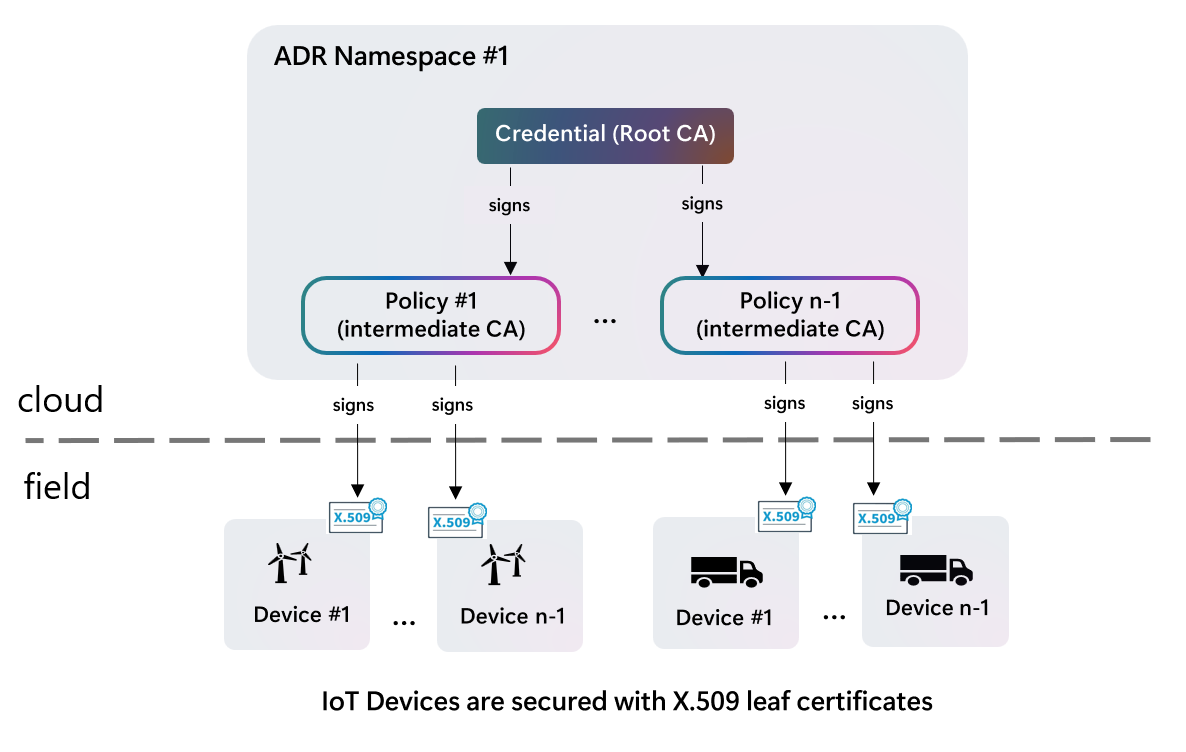
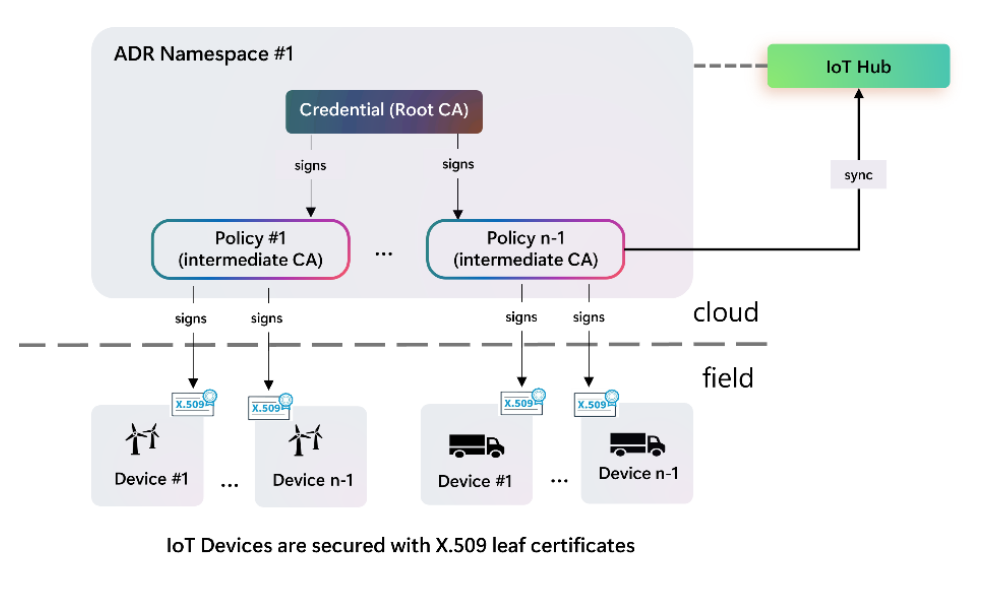
Adding new page to certificate management

diff --git a/articles/iot-hub/iot-hub-certificate-management-overview.md b/articles/iot-hub/iot-hub-certificate-management-overview.md
@@ -13,67 +13,57 @@ ms.date: 10/20/2025
 
 # What is Certificate Management (Preview)?
 
-Certificate Management is a built-in feature of IoT Hub that enables you to manage device certificates using Microsoft-managed PKI with X.509 certificates. The X.509 certificates are operational certificates that devices use to authenticate with IoT Hub for secure communications after the device onboards with a different credential.
+Certificate Management is a built-in feature of Azure Device Registry (ADR) that enables you to issue X.509 certificates for your IoT devices. It configures a dedicated, cloud-based public key infrastructure (PKI) for each of your ADR Namespaces, without requiring any on-premises servers, connectors, or hardware. It handles the certificate of issuance and renewal for all IoT devices that have been provisioned to that ADR Namespace. These X.509 certificates can be used for your IoT devices to authenticate with IoT Hub. 
 
-If you want to use Certificate Management, you need to set up an [Azure Device Registry (ADR) namespace](iot-hub-device-registry-setup.md) and link it to your IoT hub instance.
+Using Certificate Management requires you to also use IoT Hub, [Azure Device Registry (ADR)](iot-hub-device-registry-setup.md), and [Device Provisioning Service (DPS)](../iot-dps/index.yml). Certificate Management is currently in public preview.
 
 [!INCLUDE [iot-hub-public-preview-banner](includes/public-preview-banner.md)]
 
-## Authentication and authorization
+## Overview of features
 
-*Authentication* is the process of proving that you're who you say you are. Authentication verifies the identity of a user or device to IoT Hub. It's sometimes shortened to *AuthN*. 
+The following features are supported with Certificate Management for IoT Hub devices:
 
-*Authorization* is the process of confirming permissions for an authenticated user or device on IoT Hub. It specifies what resources and commands you're allowed to access, and what you can do with those resources and commands. Authorization is sometimes shortened to *AuthZ*.
+| Feature | Description |
+|---------|-------------|
+| Create a unique root certificate authority (CA) per ADR Namespace | Create up to 1 root CA, also known as credential resource, in your ADR namespace |
+| Create chained issuing certificate authorities (CA) per ADR namespace | Create up to 3 issuing CA’s, also known as policies, in your ADR namespace and customize validity periods for issued certificates. |
+| Signing and Encryption algorithms | The CA will sign and end-entity certificates using the following key type: ECC NistP384 |
+| HSM keys (signing and encryption) | Keys are provisioned using [Azure Managed Hardware Security Module (Azure Managed HSM)](azure/key-vault/managed-hsm/overview). CAs created within your ADR namespace automatically use HSM signing and encryption keys. No Azure subscription is required for Azure HSM. |
+| End-entity certificate issuance for devices | Also known as leaf certificate issuance. These certificates are signed by the issuing ICA. When a device requests a certificate via certificate signing request, an end-entity leaf certificate is delivered to the IoT device. |
+| Syncing of CA chains with IoT Hubs | The policies defined in your ADR namespace will be synced to the appropriate IoT Hub. This will enable IoT Hub to trust any devices authenticating with a leaf certificate. |
 
-X.509 certificates are only used for authentication in IoT Hub, not authorization. Unlike with [Microsoft Entra ID](authenticate-authorize-azure-ad.md) and [shared access signatures](authenticate-authorize-sas.md), you can't customize permissions with X.509 certificates.
-
-## Microsoft vs third-party PKI
-
-Public key infrastructure (PKI) uses digital certificates to authenticate and encrypt data between devices and services. PKI certificates secure scenarios like VPN, Wi-Fi, email, web, and device identity. Managing PKI certificates is challenging, costly, and complex, especially for organizations with many devices and users.
-
-IoT Hub supports two types of PKI providers for X.509 certificate authentication:
-
-| PKI provider | Integration required | IoT Hub generation | 
-|--------------|----------------------|-------------------|
-| Microsoft-managed PKI | No. Configure certificate authorities directly in Azure Device Registry (ADR).| IoT Hub Gen 2  |
-| Third-party PKI (DigiCert, GlobalSign, etc.) | Yes. Manual integration required.  | IoT Hub Gen 1 and|
-
-This article focuses on Microsoft-managed PKI with Certificate Management. For information about using third-party PKI providers, see [Authenticate devices with X.509 CA certificates](authenticate-authorize-x509.md).
-
-## Authenticate with IoT Hub using X.509 certificates
-
-To onboard and connect devices to IoT Hub, Certificate Management requires using X.509 certificate-based authentication. Other Azure IoT services like IoT Central authenticate devices using X.509 certificates or SAS (shared access signature) keys. Certificate Management prioritizes X.509 certificates because of their enhanced security.
-
-Certificate-based authentication offers these benefits over less secure methods like symmetric keys or SAS tokens:
-
-- Prevents unauthorized devices from joining the IoT network.
-- Lets admins revoke access to compromised devices.
-- Reduces the risk of exposing device credentials in transit or at rest.
-- Lets admins use different certificates for devices, groups, or scenarios.
 
 ## How Certificate Management works
 
-Certificate Management uses [Azure Device Registry (ADR)](iot-hub-device-registry-overview.md) to manage device certificates. ADR is a service that provides secure device identity and authentication for IoT solutions. It integrates with IoT Hub and Device Provisioning Service (DPS) to provide a seamless experience for managing device identities and certificates.
+Certificate Management consists of several integrated components that work together to streamline the deployment of public key infrastructure (PKI) across IoT devices. To use Certificate Management with IoT Hub, you must set up both an Azure Device Registry (ADR) namespace and a Device Provisioning Service (DPS) instance.
 
-When you set up your [ADR namespace](iot-hub-device-registry-namespaces.md#create-a-new-namespace), you can create a credential resource that configures a Microsoft-managed PKI and root CA on behalf of that ADR namespace. Within the namespace, you also configure one or more policies. Each policy coincides with an intermediate certificate authority (ICA) that is signed by the root CA of that namespace. Each ICA can only issue leaf certificates for devices registered within that ADR namespace and with Hubs linked to the namespace. In this policy, you can also define the lifespan for your operational leaf certificates, also known as your device certificates.
+### Azure Device Registry integration
+
+Certificate Management uses [Azure Device Registry (ADR)](iot-hub-device-registry-overview.md) to manage device certificates. ADR is a service that provides secure device identity and authentication for IoT solutions. It integrates with IoT Hub and Device Provisioning Service (DPS) to provide a seamless experience for managing device identities and certificates.
 
 For more information about how to create namespaces, policies, and credentials, see [Create and manage namespaces](iot-hub-device-registry-namespaces.md).
 
-The ADR namespace and its credential resource are then linked to your IoT Hub instance and DPS. This linkage enables IoT Hub to trust the device certificates issued by the ICAs configured in the ADR namespace.
+The following image illustrates the X.509 certificate hierarchy used to authenticate IoT devices in Azure IoT Hub through the Azure Device Registry (ADR).
 
-The following image illustrates the X.509 certificate hierarchy used to authenticate IoT devices in Azure IoT Hub through the Azure Device Registry (ADR). 
-
-- Each ADR namespace (cloud) has a unique root CA credential managed by Microsoft. This credential acts as the primary certificate authority. 
-- Each policy within the ADR namespace defines an intermediate CA (ICA) signed by the root CA. Each ICA can issue leaf certificates for devices registered within that ADR namespace and with Hubs linked to the namespace. This structure enables scalable identity management and policy enforcement across device groups.
-- Each device (field) is authenticated using an X.509 leaf certificate issued and signed by one of the ICAs defined in the ADR namespace. The leaf certificate is used for secure communication with IoT Hub.
+- Each ADR namespace (cloud) has a unique root CA credential managed by Microsoft. This credential acts as the primary certificate authority in the chain.
+- Each policy within the ADR namespace defines an issuing CA (ICA) signed by the root CA. Each policy can issue leaf certificates for devices registered within that ADR namespace and with Hubs linked to the namespace. This structure enables scalable identity management and policy enforcement across device groups.
+- Each device (field) is authenticated using an X.509 leaf certificate issued and signed by one of the ICAs defined in the policy. The leaf certificate is used for secure communication with IoT Hub.
 
 :::image type="content" source="media/certificate-management/device-registry-certificate-management.png" alt-text="Diagram showing how Azure Device Registry integrates with IoT Hub and DPS for certificate management." lightbox="media/certificate-management/device-registry-certificate-management.png":::
 
-### Device provisioning with Certificate Management
+### Device Provisioning Service integration
 
-Similarly to IoT Hub Gen 1, in order to use certificate management, devices must be provisioned via [Device Provisioning Service (DPS)](../iot-dps/index.yml) with Certificate Management. When a device connects to DPS for provisioning, it authenticates using its onboarding credentials. Once authenticated, the device is provisioned to the appropriate IoT Hub and registered to the appropriate ADR namespace. As part of this provisioning call, the device also submits a Certificate Signing Request (CSR) to DPS, which it uses to request an X.509 operational certificate that IoT Hub recognizes. The CSR includes information about the device, such as its public key and other identifying information.
+To use Certificate Management, devices must be provisioned through [Device Provisioning Service (DPS)](../iot-dps/index.yml). You need to configure either individual or group enrollment, which includes:
 
-With Certificate Management, you control your resources in ADR, IoT Hub Gen 2, and DPS, while Microsoft manages the PKI infrastructure, including the root CA and ICAs.
+1. Selecting the onboarding authentication method for device registration. Supported methods are Trusted Platform Module (TPM), symmetric keys, or X.509 certificates.
+1. Linking a policy created within your ADR namespace to manage certificate issuance and lifecycle.
+
+DPS now accepts Certificate Signing Requests (CSR). IoT devices generate a **Certificate Signing Request (CSR)** containing their public key and identity to prove key ownership. The CSR is sent to the PKI, which validates it and forwards it to an **Issuing CA (ICA)** to issue an X.509 certificate. For more information on DPS Certificate Signing Request, check out some the Device DPS SDKs samples.
+
+> [!NOTE]
+> While a PKI is configured for each of your ADR Namespaces, it's not exposed as an external Azure resource.
+
+### End-to-end device provisioning with Certificate Management
 
 The following diagram illustrates the end-to-end process of device provisioning with Certificate Management:
 
@@ -89,9 +79,9 @@ The following diagram illustrates the end-to-end process of device provisioning 
 
 ## Renewal of certificates
 
-Due to the wide variety of IoT devices, each device is responsible for monitoring the expiration date of its operational certificate and determining when renewal is required. The certificate includes its **expiration date**, which the device can track to identify when rotation is needed. 
+Certificate renewals are performed using the same mechanism as certificate issuance. When the device detects a need to renew its operational certificate, device initiates another provisioning call to DPS, submitting a new Certificate Signing Request (CSR) signed by its private key. The CSR is sent to the appropriate intermediate certificate authority (ICA) to request a new leaf certificate. Once approved, the new operational certificate is returned to the device for continued secure authentication with IoT Hub. 
 
-When renewal is necessary, the device initiates another provisioning call to DPS, submitting a new Certificate Signing Request (CSR) signed by its private key. The CSR is sent to the appropriate intermediate certificate authority (ICA) to request a new leaf certificate. Once approved, the new operational certificate is returned to the device for continued secure authentication with IoT Hub.
+Due to the wide variety of IoT devices, each device is responsible for monitoring the expiration date of its operational certificate and determining when renewal is required. The certificate includes its **expiration date**, which the device can track to identify when rotation is needed. 
 
 ## Disable a device
 

diff --git a/articles/iot-hub/iot-hub-device-registry-setup.md b/articles/iot-hub/iot-hub-device-registry-setup.md
@@ -1,5 +1,5 @@
 ---
-title: Create an IoT hub with Azure Device Registry integration (Preview)
+title: Create an IoT hub with Certificate Management in Azure Device Registry (Preview)
 titleSuffix: Azure IoT Hub
 description: This article explains how to create an IoT hub with Azure Device Registry and Certificate Management integration.
 author: SoniaLopezBravo
@@ -11,15 +11,18 @@ ms.date: 10/20/2025
 #Customer intent: As a developer new to IoT, I want to understand what Azure Device Registry is and how it can help me manage my IoT devices.
 ---
 
-# Create an IoT hub with Azure Device Registry integration (Preview)
+# Create an IoT hub with Certificate Management in Azure Device Registry (Preview)
 
-This article explains how to create a new IoT hub with [Azure Device Registry (ADR)](iot-hub-device-registry-overview.md) and [Certificate Management](iot-hub-certificate-management-overview.md) integration. You can optionally not link Certificate Management if you only want to use ADR.
+This article explains how to create a new IoT hub with [Azure Device Registry (ADR)](iot-hub-device-registry-overview.md) and [Certificate Management](iot-hub-certificate-management-overview.md) integration. 
 
 [!INCLUDE [iot-hub-public-preview-banner](includes/public-preview-banner.md)]
 
+> [!NOTE]
+> Certificate Management requires you to also use IoT Hub, ADR, and [Device Provisioning Service (DPS)](../iot-dps/index.yml). You can optionally not use Certificate Management, and limit your setup to just IoT Hub and ADR.
+
 ## Overview
 
-To set up your IoT hub with ADR, you can use the Azure portal, Azure CLI, or run a script. Follow the instructions in the section that corresponds to your preferred method.
+To set up your IoT hub with ADR, you can use the Azure portal or Azure CLI. You can also [use a script](#automate-the-setup-with-a-script) that automates the setup process.
 
 The setup process includes the following steps:
 
@@ -48,20 +51,6 @@ Have an Azure account. If you don't have an Azure account, create a [free accoun
   ```
 
 - Install [Azure CLI](/cli/azure/install-azure-cli) in your environment, or run `az upgrade` to ensure you have the latest version.
-
-### [Script](#tab/script)
-
-- Have an active Azure subscription. If you don't have an Azure subscription, create a [free account](https://azure.microsoft.com/free/).
-- A resource group to hold your resources. You can create a new resource group or use an existing one. If you want to create a new resource group, use the [az group create](/cli/azure/group#az-group-create) command:
-
-   ```azurecli
-   az group create --name <RESOURCE_GROUP_NAME> --location "<REGION>"
-   ```
-- A Device Provisioning Service (DPS) instance. If you don't have a DPS instance, use the [az iot dps create](/cli/azure/iot/dps#az-iot-dps-create) command to create one:
-
-   ```azurecli
-   az iot dps create --name <DPS_NAME> --resource-group <RESOURCE_GROUP_NAME> --location "<REGION>"
-   ```
 
 ***
 
@@ -409,9 +398,45 @@ To provision devices with leaf certificates, you need to create an enrollment gr
 ```bash
 az iot dps enrollment-group create --dps-name "$DPS_NAME" --resource-group "$RESOURCE_GROUP" --enrollment-id "$ENROLLMENT_ID" --credential-policy default
 ```
+*** 
 
+## Delete an IoT hub
 
-### [Script](#tab/script)
+When you delete an IoT hub, you lose the associated device identity registry. If you want to move or upgrade an IoT hub, or delete an IoT hub but keep the devices, consider [migrating an IoT hub using the Azure CLI](./migrate-hub-state-cli.md).
+
+### [Azure portal](#tab/portal)
+
+To delete an IoT hub, open your IoT hub in the Azure portal, then choose **Delete**.
+
+:::image type="content" source="./media/create-hub/delete-iot-hub.png" alt-text="Screenshot showing where to find the delete button for an IoT hub in the Azure portal." lightbox="./media/create-hub/delete-iot-hub.png":::
+
+### [Azure CLI](#tab/cli)
+
+To delete an IoT hub, run the [az iot hub delete](/cli/azure/iot/hub#az-iot-hub-delete) command:
+
+```azurecli-interactive
+az iot hub delete --name $HUB_NAME --resource-group $RESOURCE_GROUP
+```
+
+*** 
+
+## Automate the setup with a script
+
+You can use the provided PowerShell script to automate the setup of your IoT hub with Azure Device Registry integration. The script performs all the necessary steps to create the required resources and link them together.
+
+### Prerequisites
+
+- Have an active Azure subscription. If you don't have an Azure subscription, create a [free account](https://azure.microsoft.com/free/).
+- A resource group to hold your resources. You can create a new resource group or use an existing one. If you want to create a new resource group, use the [az group create](/cli/azure/group#az-group-create) command:
+
+   ```azurecli
+   az group create --name <RESOURCE_GROUP_NAME> --location "<REGION>"
+   ```
+- A Device Provisioning Service (DPS) instance. If you don't have a DPS instance, use the [az iot dps create](/cli/azure/iot/dps#az-iot-dps-create) command to create one:
+
+   ```azurecli
+   az iot dps create --name <DPS_NAME> --resource-group <RESOURCE_GROUP_NAME> --location "<REGION>"
+   ```
 
 ### Prepare Your Environment
 
@@ -457,32 +482,6 @@ Set values for the following variables in the variables section
     - ADR Namespace
     - User-Assigned Managed Identity (UAMI)
     - Custom Role Assignments
-
-***
-
-## Delete an IoT hub
-
-When you delete an IoT hub, you lose the associated device identity registry. If you want to move or upgrade an IoT hub, or delete an IoT hub but keep the devices, consider [migrating an IoT hub using the Azure CLI](./migrate-hub-state-cli.md).
-
-### [Azure portal](#tab/portal)
-
-To delete an IoT hub, open your IoT hub in the Azure portal, then choose **Delete**.
-
-:::image type="content" source="./media/create-hub/delete-iot-hub.png" alt-text="Screenshot showing where to find the delete button for an IoT hub in the Azure portal." lightbox="./media/create-hub/delete-iot-hub.png":::
-
-### [Azure CLI](#tab/cli)
-
-To delete an IoT hub, run the [az iot hub delete](/cli/azure/iot/hub#az-iot-hub-delete) command:
-
-```azurecli-interactive
-az iot hub delete --name $HUB_NAME --resource-group $RESOURCE_GROUP
-```
-
-### [Script](#tab/script)
-
-You can't delete an IoT hub using the script. Instead, delete the IoT hub using the Azure portal or Azure CLI.
-
-*** 
 
 ## Next steps
 

diff --git a/articles/iot-hub/iot-hub-certificate-management-concepts.md b/articles/iot-hub/iot-hub-certificate-management-concepts.md
@@ -1,0 +1,73 @@
+---
+title: Key concepts for Certificate Management (Preview)
+titleSuffix: Azure IoT Hub
+description: This article discusses the basic concepts of Certificate Management in Azure IoT Hub.
+author: SoniaLopezBravo
+ms.author: sonialopez
+ms.service: azure-iot-hub
+services: iot-hub
+ms.topic: overview
+ms.date: 10/20/2025
+#Customer intent: As a developer new to IoT, I want to understand the fundamental concepts of Certificate Management in Azure IoT Hub, so that I can effectively implement secure device authentication in my IoT solutions.
+---
+
+# Key concepts for Certificate Management (Preview)
+
+Certificate Management in Azure IoT Hub is designed to simplify the management of X.509 certificates for IoT devices. This article introduces the fundamental concepts related to Certificate Management and certificate-based authentication in IoT Hub. For more information, see [What is Certificate Management (Preview)?](iot-hub-certificate-management-overview.md).
+
+[!INCLUDE [public-preview-banner](../includes/public-preview-banner.md)]
+
+## Public Key Infrastructure (PKI)
+
+PKI is a system that uses digital certificates to authenticate and encrypt data between devices and services. PKI certificates are essential for securing various scenarios, such as VPN, Wi-Fi, email, web, and device identity. However, managing PKI certificates can be challenging, costly, and complex, especially for organizations that have a large number of devices and users. You can use Certificate Management to enhance the security and productivity of your devices and users, and to accelerate your digital transformation to a fully managed cloud PKI service.  
+
+## Microsoft vs third-party PKI
+
+While IoT Hub supports two types of PKI providers for X.509 certificate authentication, Certificate Management currently only supports Microsoft-managed PKI. For information about using third-party PKI providers, see [Authenticate devices with X.509 CA certificates](authenticate-authorize-x509.md).
+
+| PKI provider | Integration required | ADR required | 
+|--------------|----------------------|-------------------|
+| Microsoft-managed PKI | No. Configure certificate authorities directly in Azure Device Registry (ADR).| Yes |
+| Third-party PKI (DigiCert, GlobalSign, etc.) | Yes. Manual integration required.  | No |
+
+## Authentication vs authorization
+
+*Authentication* is the process of proving that you're who you say you are. Authentication verifies the identity of a user or device to IoT Hub. It's sometimes shortened to *AuthN*. 
+
+*Authorization* is the process of confirming permissions for an authenticated user or device on IoT Hub. It specifies what resources and commands you're allowed to access, and what you can do with those resources and commands. Authorization is sometimes shortened to *AuthZ*.
+
+X.509 certificates are only used for authentication in IoT Hub, not authorization. Unlike with [Microsoft Entra ID](authenticate-authorize-azure-ad.md) and [shared access signatures](authenticate-authorize-sas.md), you can't customize permissions with X.509 certificates.
+
+## X.509 Certificates
+
+To onboard and connect devices to IoT Hub, Certificate Management requires using X.509 certificate-based authentication.Certificate-based authentication offers these benefits over less secure methods like symmetric keys or SAS tokens:
+
+- Prevents unauthorized devices from joining the IoT network.
+- Lets admins revoke access to compromised devices.
+- Reduces the risk of exposing device credentials in transit or at rest.
+- Lets admins use different certificates for devices, groups, or scenarios.
+
+There are two general categories of X.509 certificates: 
+
+- **CA certificates:** These certificates are issued by a Certificate Authority (CA), and you use them to sign other certificates. CA certificates include root and intermediate certificates. 
+    
+    - **Root certificates:** A root certificate is a top-level, self-signed certificate from a trusted CA that can be used to sign intermediate CAs. 
+    
+    - **Intermediate certificates:** An intermediate certificate is a CA certificate that is signed by a trusted root certificate. You can use intermediate certificates to sign end-entity certificates, such as individual or leaf device certificates. You can also use intermediate certificates to sign other intermediate certificates and create a chain of intermediates. In a chain of intermediate certificates, you can use the last intermediate certificate to sign end-entity certificates, including device certificates. 
+
+    > [!NOTE]
+    > It might be helpful to use different intermediate certificates for different sets or groups of devices, such as devices from different manufacturers or different models of devices. The reason to use different certificates is to reduce the total security impact if any particular certificate is compromised. 
+
+- **End-entity certificates:** These certificates, which can be individual or leaf device certificates, are signed by CA certificates and are issued to users, servers, or devices.
+
+## Onboarding vs operational certificates
+
+Today, Certificate Management only supports issuance and renewal for end-entity operational certificates. 
+
+- **Onboarding Credential:** To use certificate management, devices must be provisioned via Device Provisioning Service. The device must onboard and authenticate using one of the existing supported methods: including X.509 certificates (procured from a third-party CA), symmetric keys, and Trusted Platform Modules (TPM) [Include links to DPS sections for these]. When using certificate management with DPS, we currently only support HTTP, MQTT, and MQTT-Web-Sockets protocols.  
+
+- **Operational Certificate:** An operational certificate is an end-entity certificate issued by an intermediate CA during a device’s provisioning process. Once the device is provisioned, the operational certificate can be used to authenticate directly with IoT Hub. Today, Certificate Management will issue an the operational certificate to authenticate a device in its daily operations. These certificates are typically short-lived and renewed as needed during device operation. 
+
+
+
+

diff --git a/articles/iot-hub/authenticate-authorize-x509.md b/articles/iot-hub/authenticate-authorize-x509.md
@@ -35,10 +35,10 @@ Public key infrastructure (PKI) uses digital certificates to authenticate and en
 
 IoT Hub supports two types of PKI providers for X.509 certificate authentication: 
 
-| PKI provider | Integration required | IoT Hub generation | 
+| PKI provider | Integration required | ADR required | 
 |--------------|----------------------|-------------------|
-| Microsoft-managed PKI | No. Configure certificate authorities directly in Azure Device Registry (ADR).| IoT Hub Gen 2  |
-| Third-party PKI (DigiCert, GlobalSign, etc.) | Yes. Manual integration required.  | IoT Hub Gen 1 and Gen 2 |
+| Microsoft-managed PKI | No. Configure certificate authorities directly in Azure Device Registry (ADR).| Yes |
+| Third-party PKI (DigiCert, GlobalSign, etc.) | Yes. Manual integration required.  | No |
 
 This article focuses on third-party PKI providers. If you want to use Microsoft-managed PKI with X.509 certificates, see [What is Certificate Management?](iot-hub-certificate-management-overview.md).
 

diff --git a/articles/iot-hub/includes/public-preview-banner.md b/articles/iot-hub/includes/public-preview-banner.md
@@ -8,4 +8,4 @@ services: iot-hub
 ---
 
 > [!IMPORTANT]
-> The integration of IoT Hub with Azure Device Registry and Certificate Management is in **public preview** and isn't recommended for production workloads. For more information, see the [FAQ: What is new in IoT Hub?](../iot-hub-faq.md).
+> IoT Hub with Certificate Management in Azure Device Registry is in **public preview** and isn't recommended for production workloads. For more information, see the [FAQ: What is new in IoT Hub?](../iot-hub-faq.md).
